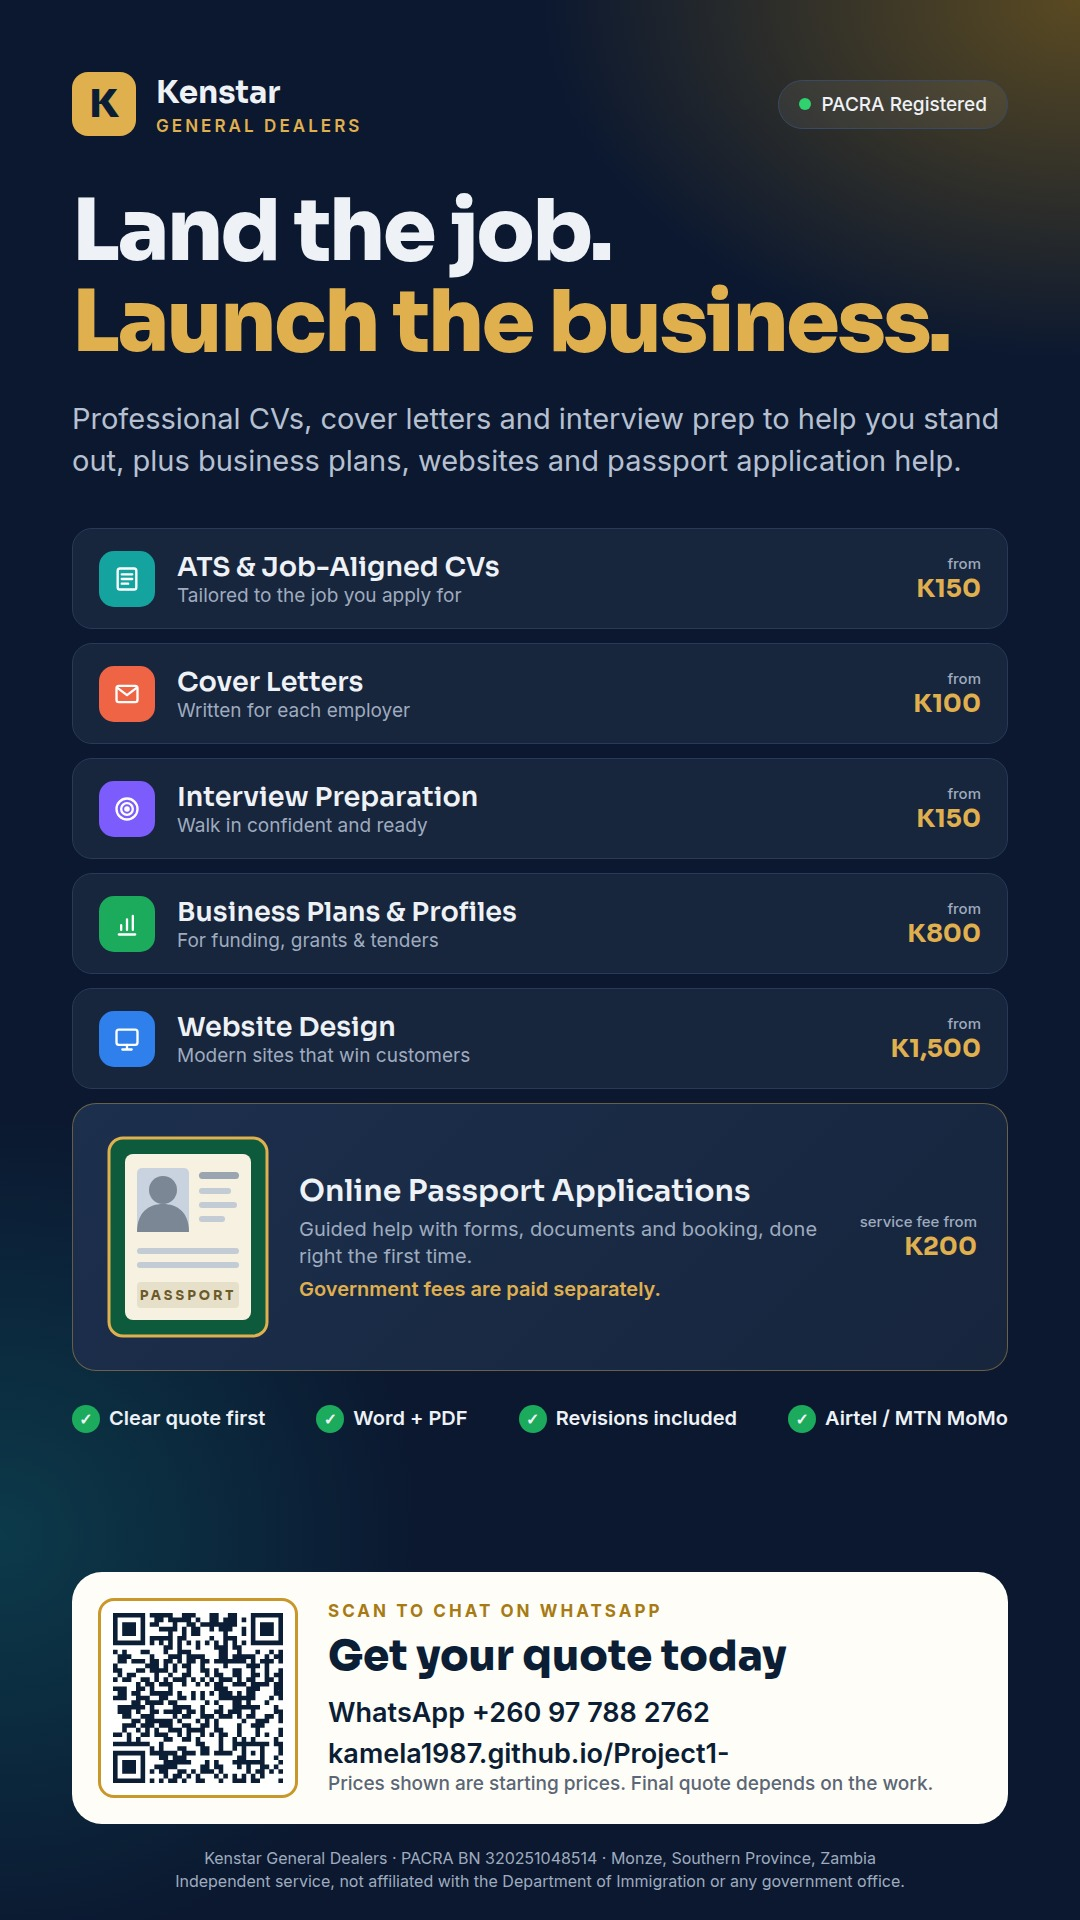
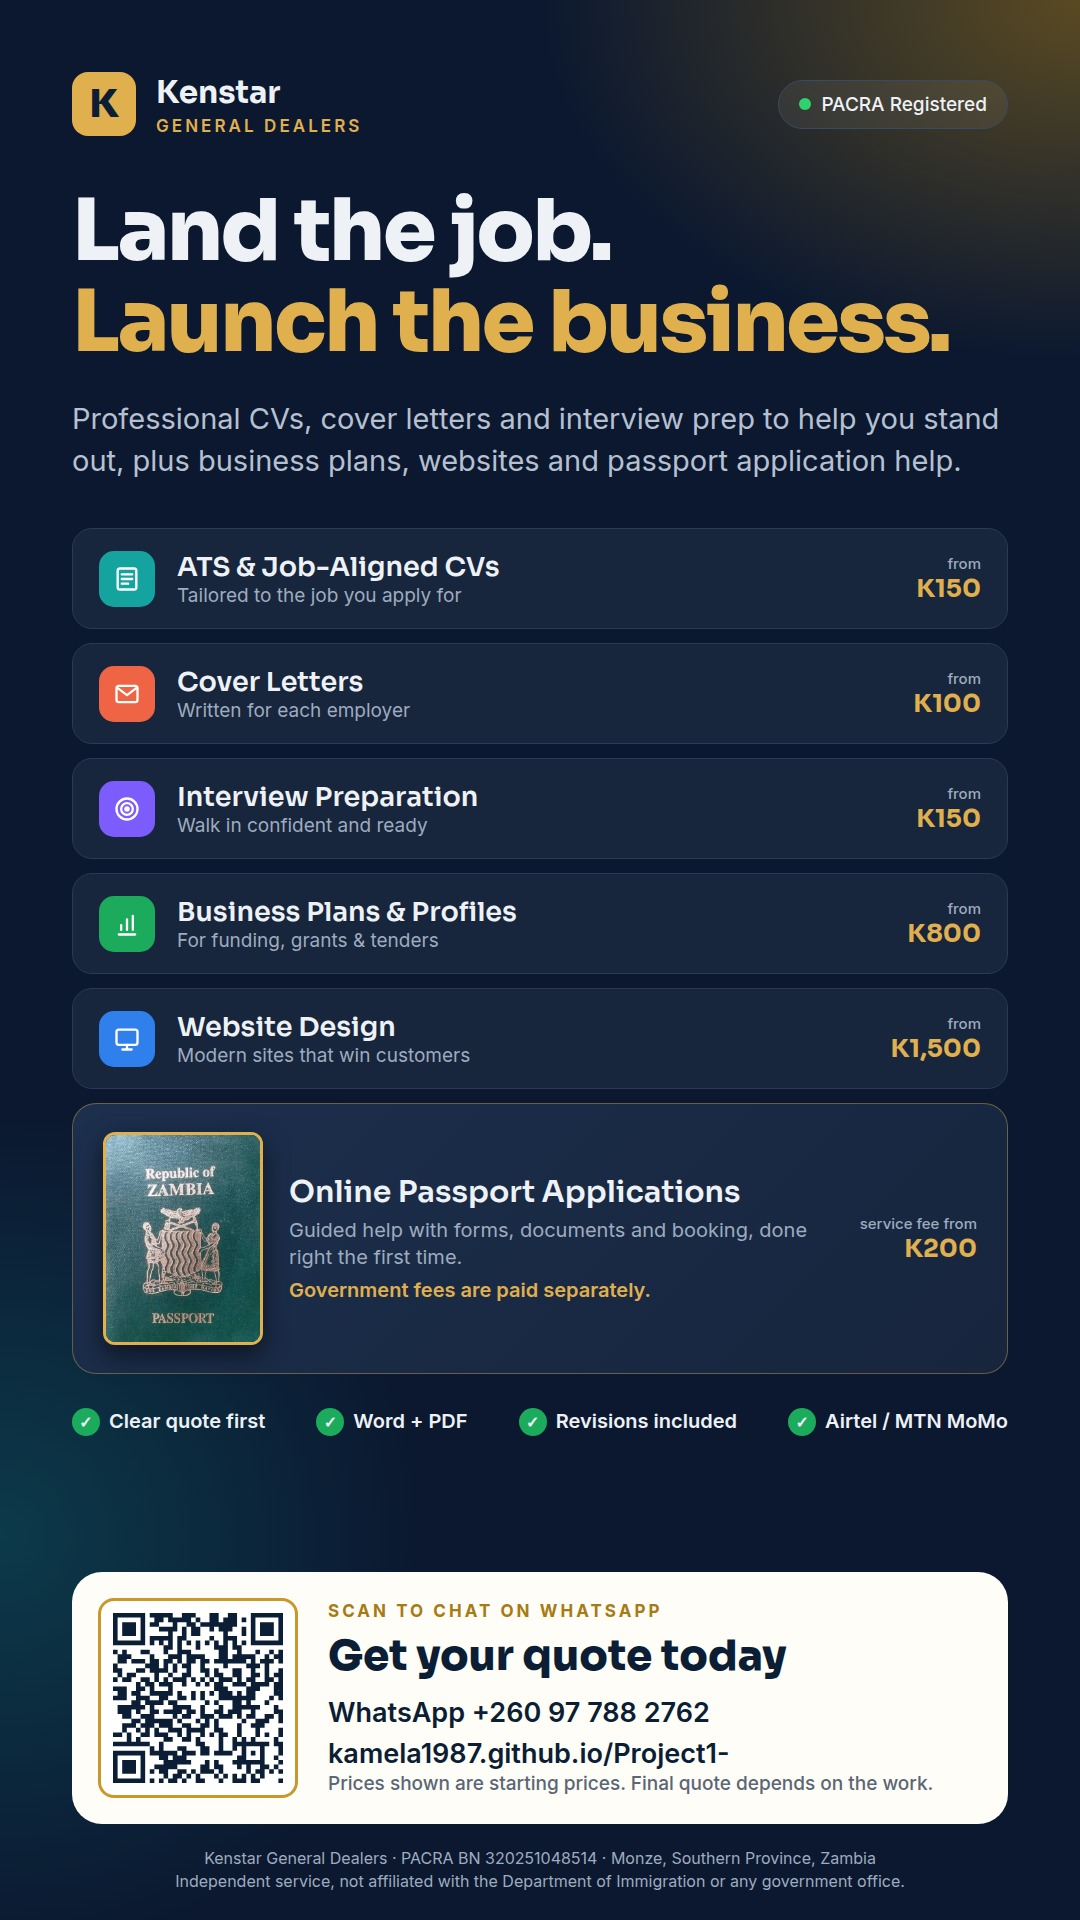
Use real passport cover photo on the brochure passport card
Claude-Session: https://claude.ai/code/session_016qMk4yYnCGxzdAQUJTuqhu

diff --git a/kenstar-general-dealers/templates/brochure-source/brochure.html b/kenstar-general-dealers/templates/brochure-source/brochure.html
@@ -42,15 +42,7 @@ h1 span{color:#e0b04f}
  <div class="row"><div class="ic" style="background:#1caa5c"><svg viewBox="0 0 24 24"><path d="M5 21h14M7 17v-4M12 17V8M17 17V5"/></svg></div><div class="t"><b>Business Plans &amp; Profiles</b><span>For funding, grants &amp; tenders</span></div><div class="price"><small>from</small>K800</div></div>
  <div class="row"><div class="ic" style="background:#2f80ed"><svg viewBox="0 0 24 24"><rect x="3" y="4" width="18" height="13" rx="2"/><path d="M8 21h8M12 17v4"/></svg></div><div class="t"><b>Website Design</b><span>Modern sites that win customers</span></div><div class="price"><small>from</small>K1,500</div></div>
  <div class="pp">
-  <svg width="170" height="210" viewBox="0 0 170 210" style="flex:none">
-   <rect x="6" y="6" width="158" height="198" rx="14" fill="#0e5a3c" stroke="#e0b04f" stroke-width="3"/>
-   <rect x="22" y="22" width="126" height="166" rx="8" fill="#f6f1e1"/>
-   <rect x="34" y="36" width="52" height="64" rx="5" fill="#c9d3df"/>
-   <circle cx="60" cy="58" r="14" fill="#7b8794"/><path d="M34 100c0-20 12-28 26-28s26 8 26 28z" fill="#7b8794"/>
-   <rect x="96" y="40" width="40" height="7" rx="3.5" fill="#9aa5b1"/><rect x="96" y="56" width="32" height="6" rx="3" fill="#c3cbd4"/><rect x="96" y="70" width="38" height="6" rx="3" fill="#c3cbd4"/><rect x="96" y="84" width="26" height="6" rx="3" fill="#c3cbd4"/>
-   <rect x="34" y="116" width="102" height="6" rx="3" fill="#c3cbd4"/><rect x="34" y="130" width="102" height="6" rx="3" fill="#c3cbd4"/>
-   <rect x="34" y="150" width="102" height="26" rx="4" fill="#e6dfc9"/><text x="85" y="168" text-anchor="middle" font-family="Sora" font-weight="700" font-size="13" fill="#6b5a2a" letter-spacing="3">PASSPORT</text>
-  </svg>
+  <img src="passport.jpg" alt="Zambian passport" style="width:160px;height:213px;object-fit:cover;border-radius:12px;border:3px solid #e0b04f;flex:none;box-shadow:0 10px 24px #0008">
   <div class="t"><b>Online Passport Applications</b><span>Guided help with forms, documents and booking, done right the first time.</span><span style="color:#e0b04f;font-weight:600">Government fees are paid separately.</span></div>
   <div class="price"><small>service fee from</small>K200</div>
  </div>
